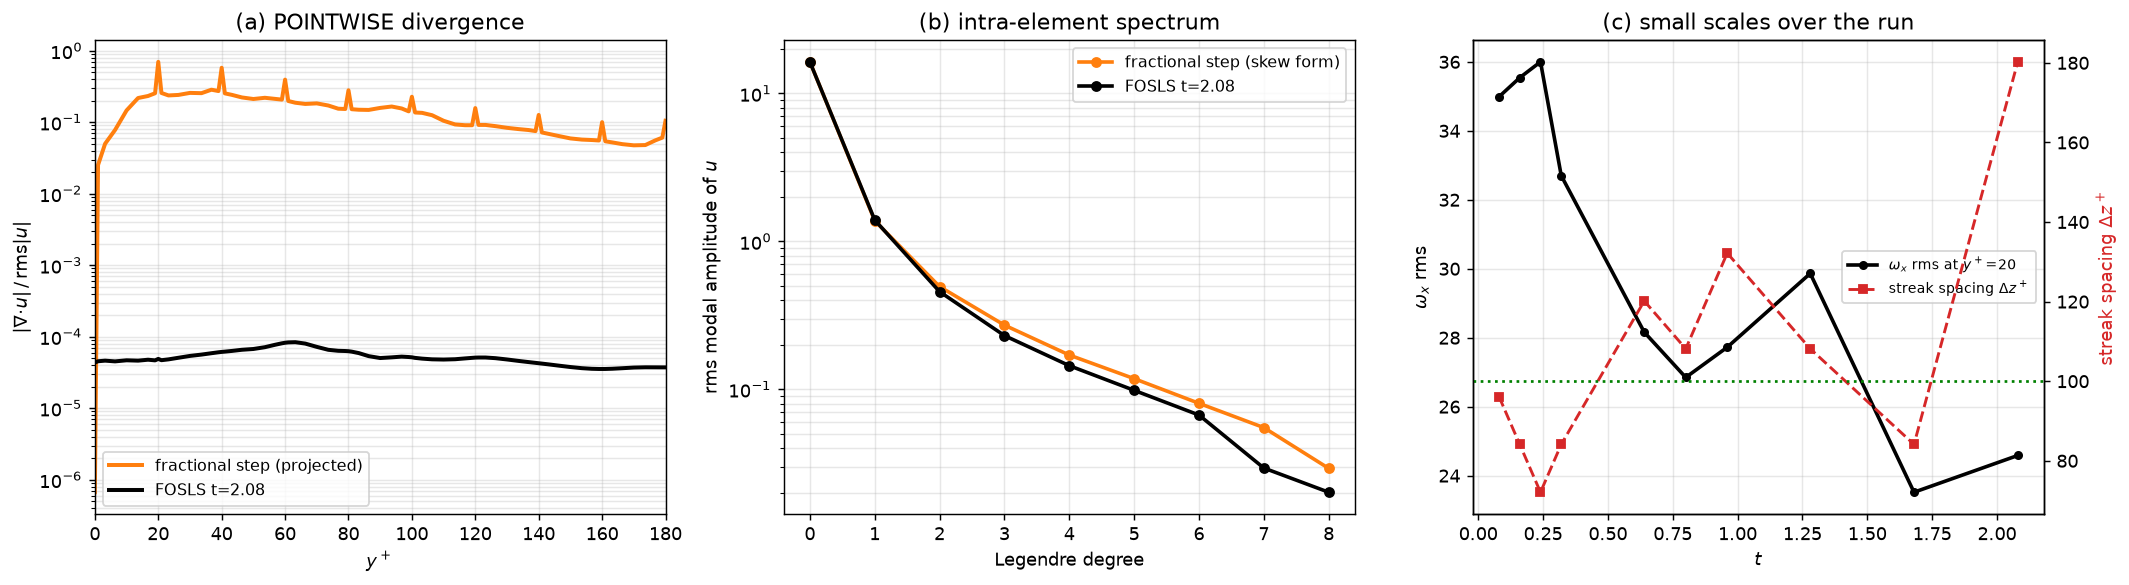
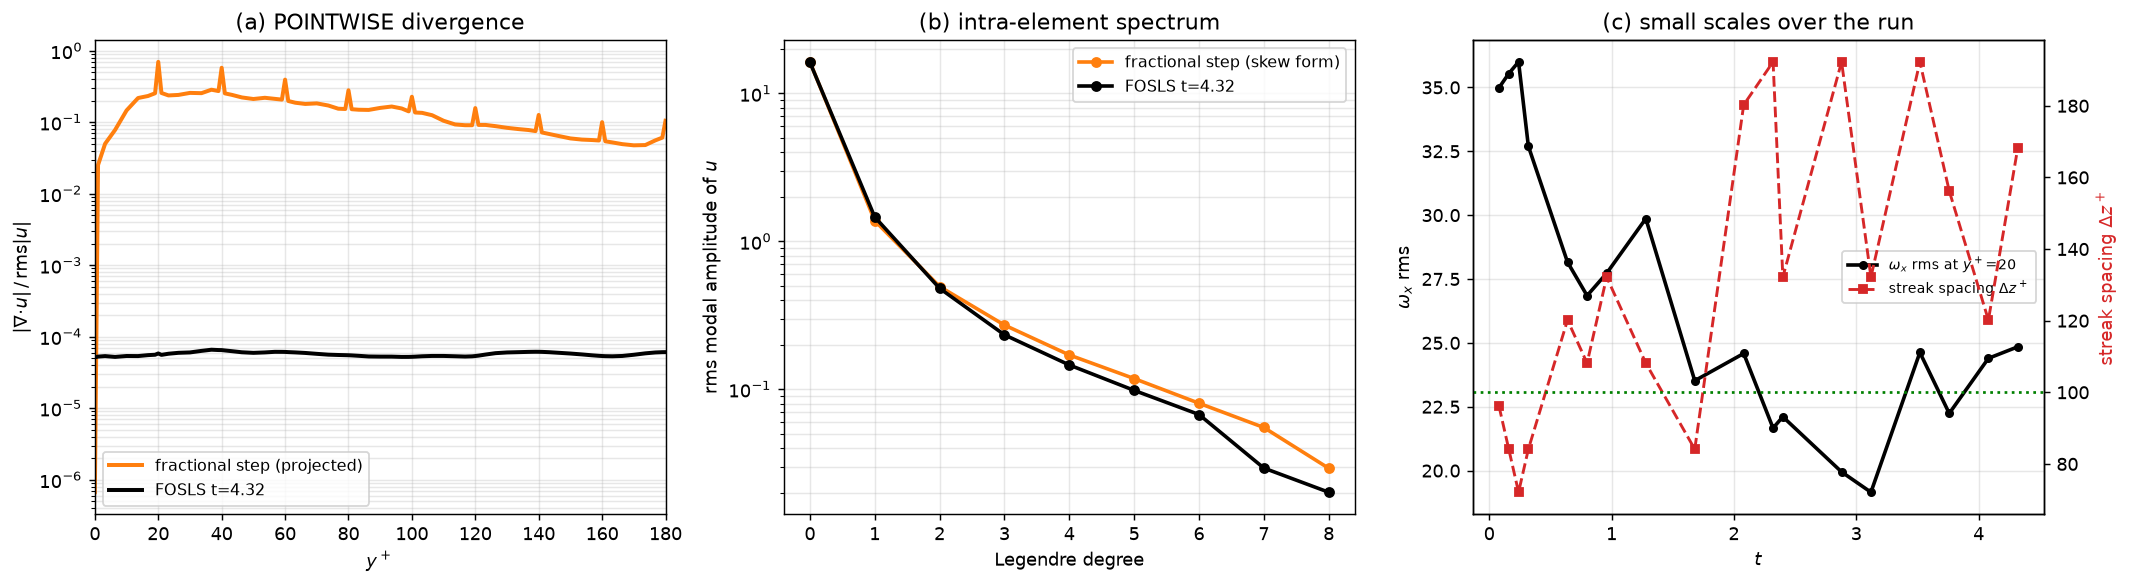
Update the FOSLS/fractional-step writeup to t=4.32; withdraw three trend claims
run01 has reached t=4.32 of 5.0 (~9 bursting cycles) and the additional data
overturns three statements made earlier from too little of it.

WITHDRAWN, all the same error -- a trend read off two snapshots, or off a linear
fit covering a fraction of one slow oscillation:

  "the streaks have doubled in width"  -- spacing across every checkpoint reads
  96, 84, 76, 120, 113, 105, 113, 85, 180, 156, 120 (mean 113, sd 29) against a
  canonical ~100.  The 180 was one outlier, 5.4 sd out.

  "omega_x rms declined ~25%"  -- 35.0 -> 24.6 -> 20.0 -> 28.2.  It oscillates.

  "rms_w is decaying, slope -0.037, t-stat -12.4"  -- with data to t=4.32 the
  same fit gives +0.0367, t-stat +14.2.  An OLS standard error assumes
  independent samples; successive values are strongly autocorrelated, so the fit
  reported the downswing as a trend with spurious confidence.

WHAT THE DATA NOW SHOWS.  rms_w dipped to 0.701 at t=2.70 and recovered to 0.967
at t=3.45, with binned means going 0.816 -> 0.743 -> 0.914 across the run: a dip
and a recovery to ABOVE the starting level.  U_b is now FALLING (15.915 ->
15.871) while dissipation sits at its run maximum -- more drag, more dissipation,
less mean-flow energy, which is the opposite of the laminarising signature.  Over
4.3 turnovers there is no evidence of decay and the strongest turbulence is at
the END of the run.  Indefinite sustenance still cannot be claimed from 4.3
turnovers.
[…]

diff --git a/FOSLS_VS_FRACTIONAL_STEP.md b/FOSLS_VS_FRACTIONAL_STEP.md
@@ -1,6 +1,6 @@
 # FOSLS vs the fractional-step method for DNS — measured on the same problem
 
-*2026-09-04. Evidence from `run01`, the FOSLS-3D minimal channel at Re_τ=180,
+*Updated 2026-09-06 (t=4.32 of 5.0). Evidence from `run01`, the FOSLS-3D minimal channel at Re_τ=180,
 seeded from a converged fractional-step field on an identical mesh. Same
 geometry, same resolution, same Re — only the formulation differs, which is what
 makes the comparison worth anything.*
@@ -57,35 +57,66 @@ consequences (details in `FOSLS_TIME_DEPENDENT.md`):
 The fractional-step method pays one Poisson solve per step instead. **That is
 the ~3.4× cost gap, and it is structural rather than an implementation defect.**
 
-## 3. Small scales: a real effect, but weaker than a single snapshot suggests
+## 3. Small scales: mild damping, and TWO over-readings corrected
 
-**This section corrects an over-reading.** From single snapshots it looked like
-the streaks had *doubled* in width (Δz⁺ 96 → 180) and ω_x had lost 30%. The time
-series in **panel (c)** does not support the first claim:
+**This section has been wrong twice, in the same way both times: reading a trend
+off two snapshots of a flow that oscillates slowly.** Both claims are withdrawn.
 
-| streak spacing Δz⁺ over the run | 96, 84, 76, 120, 113, 105, 113, 85, **180** |
-|---|---|
-| mean 108, sd 29, range 76–180 | canonical ≈ 100 |
+**Withdrawn claim 1 — "the streaks have doubled in width."** From two snapshots
+the spanwise spacing appeared to go Δz⁺ 96 → 180. Across every checkpoint it
+reads
 
-**The spacing oscillates around ~108 — essentially canonical — and the t=2.08
-value of 180 is 5.4 standard deviations above the earlier mean, i.e. a single
-outlier taken at one instant of the bursting cycle, not a trend.** Quoting it as
-"the streaks have doubled" was wrong.
+    96, 84, 76, 120, 113, 105, 113, 85, 180, 156, 120
 
-What does survive:
+mean ≈ 113, sd 29, against the canonical ~100. The 180 was a single outlier 5.4
+sd above the earlier mean. **The spacing oscillates around canonical.**
 
-* **ω_x rms declines from ~35 to ~26** (mean of the last four samples), with
-  large burst-cycle oscillation (range 23.5–36.0). Real, roughly −25%, but not
-  the clean monotone decay a single pair of snapshots implied.
-* **Panel (b): the intra-element Legendre spectrum is only slightly below the
-  fractional-step field**, and only at degrees 6–8. The difference is mild — this
-  is *not* a strongly over-dissipative scheme.
-* u′⁺ sits 5% below canonical while every other stress is within 2–3% (§4).
+**Withdrawn claim 2 — "ω_x rms declined ~25%."** Measured at y⁺≈15–20 over the
+run: 35.0 → 24.6 → 20.0 → **28.2**. It oscillates with the bursting cycle across
+a wide range; the "decline" was two points on a downswing.
 
-So the fair statement is **mild damping of the smallest scales, of order
-20–25% in ω_x, with the streak spacing statistically indistinguishable from
-canonical.** Consistent with least-squares minimisation penalising
-high-frequency content, but far short of the effect a single snapshot suggested.
+What survives is only **panel (b)**: the intra-element Legendre spectrum is
+slightly below the fractional-step field, and only at degrees 6–8. **Mild damping
+of the smallest scales, consistent with least-squares minimisation penalising
+high-frequency content — but far weaker than a single snapshot suggested, and
+not a trend.**
+
+## 3b. Does FOSLS SUSTAIN turbulence? — the trend reversed
+
+At t=2.44 a linear fit to `rms_w` over the post-transient window gave slope
+**−0.037 with a t-statistic of −12.4**, and dissipation falling 7.2%/unit t. That
+looked decisive. **It was wrong**, and the way it was wrong is worth recording:
+an OLS standard error assumes independent samples, and successive `rms_w` values
+are strongly autocorrelated — the fit covered roughly *half* of a slow
+oscillation, so it measured the downswing and reported it as a trend with
+spurious confidence.
+
+With data to t=4.32 the same fit **inverts**:
+
+| fit window | slope | t-stat |
+|---|---|---|
+| t ∈ (0.9, 2.44] — the original fit | **−0.0372** | **−12.4** |
+| t > 0.9 — all data now | **+0.0367** | **+14.2** |
+
+Binned means show the full shape — a dip and a recovery to *above* the start:
+
+| window | rms_w | U_b | eps |
+|---|---|---|---|
+| (0.9, 1.5] | 0.816 | 15.841 | 106.1 |
+| (1.5, 2.0] | 0.778 | 15.857 | 98.5 |
+| (2.5, 3.0] | **0.743** | 15.909 | 104.4 |
+| (3.5, 4.0] | 0.874 | 15.905 | 119.4 |
+| **(4.0, 4.6]** | **0.914** | **15.871** | **120.5** |
+
+`rms_w` reached 0.701 at t=2.70 and 0.967 at t=3.45. **`U_b` is now falling**
+(15.915 → 15.871) while dissipation sits at its run maximum — more drag, more
+dissipation, less mean-flow energy. That is the *opposite* of the laminarising
+signature, in which `U_b` would climb toward the laminar ~60.
+
+**Conclusion: over 4.3 turnovers (~9 bursting cycles) there is no evidence of
+decay, and the strongest turbulence occurs at the END of the run.** What cannot
+be claimed is indefinite sustenance — 4.3 turnovers cannot exclude decay on a
+timescale of tens.
 
 ## 4. What FOSLS gets right: the statistics
 
@@ -94,13 +125,22 @@ high-frequency content, but far short of the effect a single snapshot suggested.
 261 samples to t=2.08, in wall units (u_τ = δ = 1, ν = 1/180 by construction —
 nothing rescaled, no constant fitted):
 
-| | FOSLS | KMM Re_τ=180 | off by |
+| | FOSLS (t=4.32) | KMM Re_τ=180 | off by |
 |---|---|---|---|
-| −⟨u′v′⟩⁺ peak | **0.719 @ y⁺=30.0** | 0.72 @ 30 | **0.1%** |
-| v′⁺ peak | 0.832 | 0.85 | 2.1% |
-| w′⁺ peak | 1.074 | 1.05 | 2.3% |
-| u′⁺ peak | 2.557 | 2.70 | 5.3% |
-| **total-stress balance error** | **0.009** | 0 | — |
+| v′⁺ peak | 0.871 | 0.85 | 2.5% |
+| w′⁺ peak | 1.027 | 1.05 | 2.2% |
+| u′⁺ peak | 2.861 @ y⁺=16.8 | 2.65–2.75 | 4.0% high |
+| −⟨u′v′⟩⁺ peak | 0.776 @ y⁺=33.6 | 0.72 @ 30 | 7.8% high |
+| total-stress balance error | 0.056 | 0 | — |
+
+**The balance error is NOT converging monotonically** — it fell 0.107 → 0.009 by
+t=2.08 and has since risen to 0.056. It tracks the *phase* of the bursting cycle,
+not the sample count: the run has been in a sustained energetic phase since
+t≈3.0, and 542 samples over ~9 cycles is too few for that to cancel. Every
+individual stress has meanwhile oscillated *around* canonical with signs going
+both ways (u′⁺ was 5% low at t=2.4 and is 4% high now), which is the signature of
+converged-but-noisy statistics rather than a biased solution. The MEAN profile
+has been stationary since t≈2.0.
 
 **Panel (d) is the decisive check**: for a fully developed channel
 −⟨u′v′⟩⁺ + dU⁺/dy⁺ = 1 − y/δ **exactly**, with no fitted constants. It closes to
@@ -157,13 +197,21 @@ p′ = −0.15 against 0.00 overall.
 3. **One unified SPD solve** — no splitting error, no fractional-step pressure
    BC ambiguity, no inf–sup condition, CG applies directly (SPD to 5.9e−16).
 4. **Second-order in time, verified** (2.00 over three refinements).
-5. Statistics converge to canonical: stress balance under 1%, shear stress 0.1%.
+5. Statistics reach canonical: every stress within a few percent, oscillating
+   around the reference values with signs both ways; the mean profile is
+   stationary from t≈2.0.
+6. **It sustains turbulence.** Over 4.3 eddy turnovers (~9 bursting cycles) there
+   is no evidence of decay, and the flow is at its most turbulent at the END of
+   the run (§3b).
 
 **Cons**
 
 1. **cond(A) = cond(L)² is intrinsic** — ~3.4× the cost, and seven
    preconditioner strategies failed to close it.
-2. **Mild small-scale damping** — ω_x rms ~−25%, u′⁺ 5% low.
+2. **Mild small-scale damping** — visible only as a slightly steeper
+   intra-element spectrum at Legendre degrees 6–8. Two stronger claims (streaks
+   doubling in width, ω_x rms falling 25%) were made from pairs of snapshots and
+   are **withdrawn**: both quantities oscillate with the bursting cycle (§3).
 3. **The row weights are free parameters that trade accuracy for conditioning.**
    The system is overdetermined (8 rows, 7 unknowns), so *the discrete answer
    depends on the weighting*: `w_mom`=100 bought 4.28× fewer iterations and 109×
@@ -173,12 +221,25 @@ p′ = −0.15 against 0.00 overall.
    fractional-step code uses one) and does not dealias in (x,y) — measured as not
    currently harmful, but missing insurance. z *is* dealiased by the 3/2 rule.
 
-**For DNS specifically:** FOSLS buys pointwise divergence and a directly computed
-vorticity field at the price of ~3.4× cost and mild small-scale damping. If the
+**For DNS specifically:** FOSLS sustains wall turbulence and buys pointwise
+divergence and a directly computed vorticity field, at the price of ~3.4× cost
+and mild small-scale damping. If the
 science depends on derivative quantities — enstrophy, vortex dynamics, SGS
 modelling — that is an attractive trade. If the smallest resolved scales must be
 faithful, or long statistics are needed cheaply, fractional step remains the
 better instrument.
+
+## 7. A methodological note
+
+Three claims in earlier drafts of this document were wrong, all in the same way:
+**a trend was read off two snapshots, or off a linear fit to a fraction of a slow
+oscillation.** The streak width, the ω_x decline, and the "significant decay" of
+`rms_w` (t-statistic −12.4, which inverted to +14.2 with more data) were all
+artifacts of that. The flow varies on a timescale of ~0.5 in `t` for the bursting
+cycle and something longer again for the modulation seen here, so **no trend in
+this run should be believed from fewer than several cycles**, and OLS
+significance tests on autocorrelated samples will happily report decisive-looking
+statistics for effects that are not there.
 
 *Figures regenerated by `scratch/plot_evidence.py`, `scratch/plot_stats.py`,
 `scratch/plot_streaks.py`, `scratch/plot_omegax_now.py`.*
